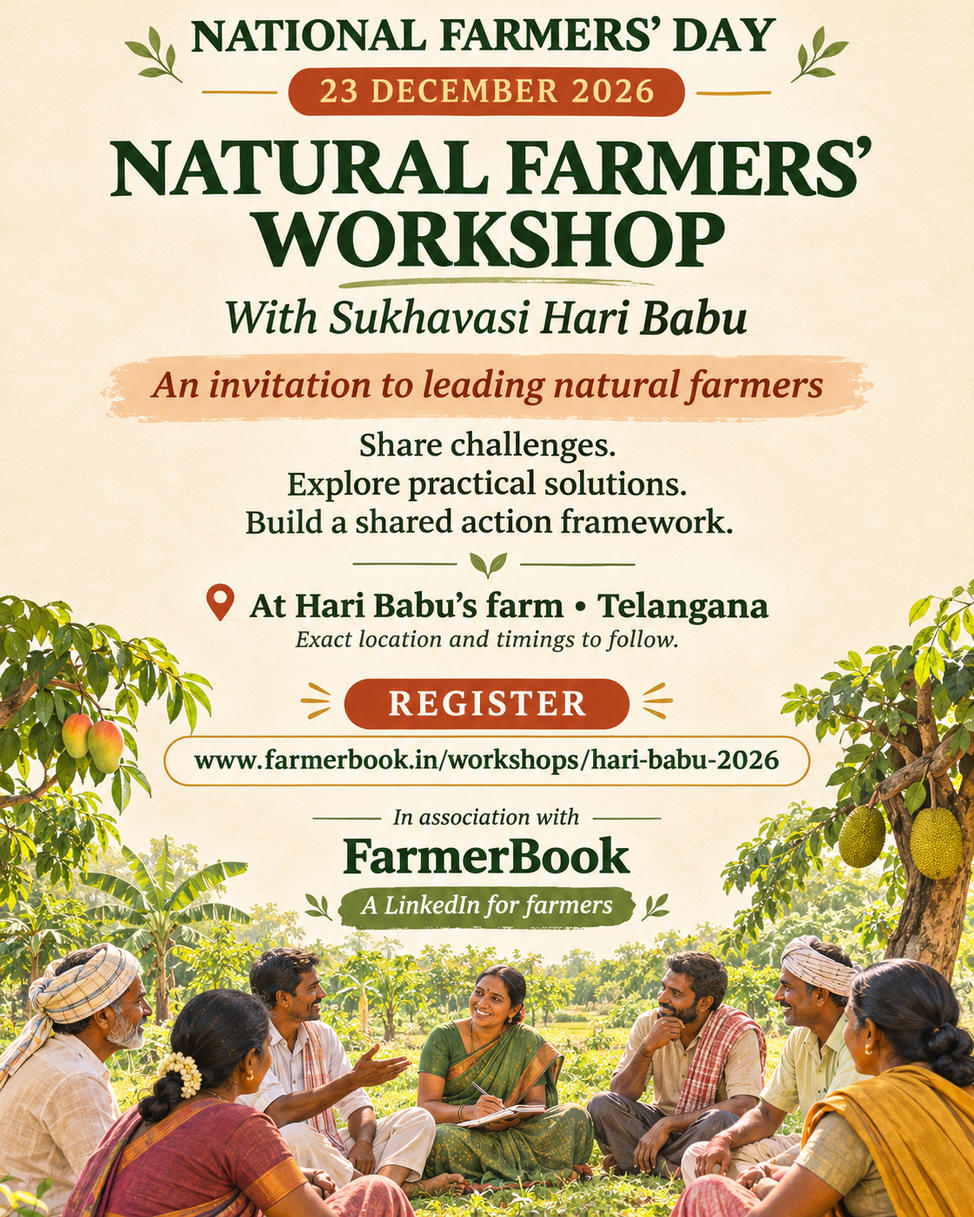
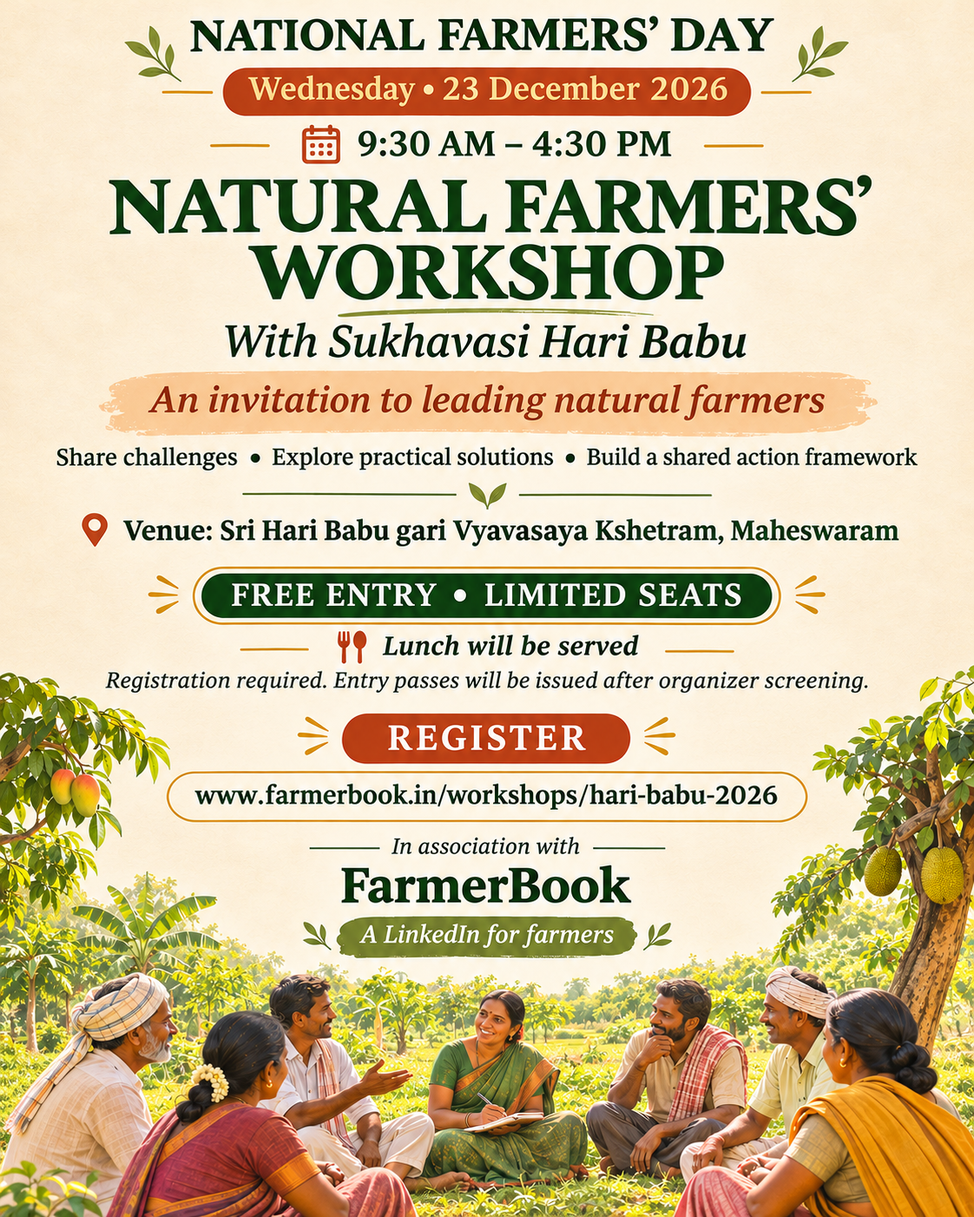
Confirm workshop schedule venue and screened-entry details

diff --git a/features/workshops/workshop-copy.ts b/features/workshops/workshop-copy.ts
@@ -13,11 +13,11 @@ const english = {
   homeEyebrow: "23 December 2026 · National Farmers' Day",
   homeTitle: "A natural farmers' workshop with Sukhavasi Hari Babu",
   homeBody:
-    "Bring the farming challenges you face. The workshop aims to discuss practical solutions and shape a shared framework for action, in association with FarmerBook.in.",
+    "Bring your farming challenges to Sri Hari Babu Gari Vyavasaya Kshetram, Maheswaram, on 23 December 2026, 9:30 AM–4:30 PM IST. Entry is free and lunch is served. Seats are limited; organizers review registration requests and issue passes for entry.",
   homeAction: "Explore the workshop",
   metadataTitle: "Sukhavasi Hari Babu Natural Farmers' Workshop",
   metadataDescription:
-    "A natural farmers' workshop on 23 December 2026, National Farmers' Day, in association with FarmerBook.in. Share your interest and the farming challenges you want to discuss.",
+    "23 December 2026, 9:30 AM–4:30 PM IST at Sri Hari Babu Gari Vyavasaya Kshetram, Maheswaram. Free entry and lunch; limited seats. Organizers issue passes after reviewing registrations.",
   eyebrow: "National Farmers' Day · 23 December 2026",
   title: "Sukhavasi Hari Babu Natural Farmers' Workshop",
   intro:
@@ -26,9 +26,15 @@ const english = {
   dateLabel: "Date",
   dateValue: "Wednesday, 23 December 2026",
   timeLabel: "Time",
-  timeValue: "The organizers will share the exact time.",
+  timeValue: "9:30 AM–4:30 PM IST",
   placeLabel: "Location",
-  placeValue: "Hari Babu's farm, Telangana. The exact location will follow.",
+  placeValue: "Sri Hari Babu Gari Vyavasaya Kshetram, Maheswaram",
+  entryLabel: "Entry",
+  entryValue: "Free entry. Registration and an organizer-issued pass are required.",
+  seatsLabel: "Seats and passes",
+  seatsValue: "Limited seats. Organizers review registrations before issuing passes.",
+  lunchLabel: "Lunch",
+  lunchValue: "Served at the event.",
   interestAction: "Share your interest",
   closedAction: "Registration closed",
   profileAction: "About Sukhavasi Hari Babu",
@@ -42,7 +48,7 @@ const english = {
   purposeEyebrow: "What we will work on",
   purposeTitle: "Start with farmers' questions",
   purposeIntro:
-    "Your registration can include the challenges you face and ideas you want to bring to the discussion.",
+    "Your interest request can include the challenges you face and ideas you want to bring to the discussion.",
   challengeTitle: "Name the problems",
   challengeBody: "Surface the practical obstacles farmers are seeing in their fields.",
   solutionTitle: "Explore solutions",
@@ -52,7 +58,7 @@ const english = {
   registrationEyebrow: "Workshop interest",
   registrationTitle: "Tell us you are interested",
   registrationIntro:
-    "Share the details needed for workshop coordination. The organizers will contact you with the exact time and location.",
+    "Entry is free, but seats are limited. Share your interest for organizer review; selected applicants receive a pass. Submitting this form does not confirm entry.",
   closedTitle: "Registration is closed",
   closedBody:
     "Registration for the 23 December 2026 workshop closed at midnight India time on 24 December 2026.",
@@ -69,14 +75,14 @@ const english = {
   crops: "Main crops (optional)",
   attendanceInterest: "Your interest",
   chooseInterest: "Choose an option",
-  attendanceAttend: "I plan to attend",
+  attendanceAttend: "I would like to attend if selected",
   attendanceInterested: "I am interested and would like details",
   challenges: "What challenges would you like to discuss? (optional)",
   proposedSolutions: "What practical solutions would you like to share? (optional)",
   consent:
-    "I agree that FarmerBook.in and the workshop organizers may use the details I provide to coordinate this workshop and contact me about it. My responses will not be shown publicly.",
+    "I agree that FarmerBook.in and the workshop organizers may use my details to review my interest request, coordinate this workshop, and contact me about a pass. My responses will not be shown publicly.",
   privacy:
-    "Your details are used only to coordinate this workshop and will be automatically deleted on 24 March 2027 (India time).",
+    "Your details are used only to review interest requests and coordinate this workshop. They will be automatically deleted on 24 March 2027 (India time).",
   earlyDeletion: "For earlier deletion, use the",
   deletionRequestLink: "data deletion request page",
   orEmail: "or email",
@@ -94,8 +100,8 @@ const english = {
   sessionRefreshing: "Your secure form expired. Refreshing it while keeping your answers…",
   sessionRefreshed: "Your form is ready again. Complete spam protection and submit once more.",
   rateLimited: "Too many attempts. Please try again later.",
-  successTitle: "Registration received",
-  successBody: "The organizers will contact you with the exact time and location.",
+  successTitle: "Interest request received",
+  successBody: "Organizers will review your request and issue passes to selected participants. This submission does not confirm a seat or entry.",
   fallbackNotice:
     "Workshop information is currently available in English for this language selection.",
 };
@@ -103,53 +109,59 @@ const english = {
 export type WorkshopCopy = typeof english;
 
 const telugu: WorkshopCopy = {
-  nav: "రైతుల వర్క్షాప్",
+  nav: "ప్రకృతి రైతుల సమ్మేళనం",
   homeEyebrow: "23 డిసెంబర్ 2026 · జాతీయ రైతు దినోత్సవం",
-  homeTitle: "సుఖవాసి హరి బాబుతో సహజ రైతుల వర్క్షాప్",
+  homeTitle: "సుఖవాసి హరి బాబు ప్రకృతి రైతుల సమ్మేళనం",
   homeBody:
-    "మీ వ్యవసాయ సవాళ్లను పంచుకోండి. ఫార్మర్బుక్.ఇన్ భాగస్వామ్యంతో నిర్వహించే ఈ వర్క్షాప్లో ఆచరణాత్మక పరిష్కారాలపై చర్చించి, ఉమ్మడి కార్యాచరణ రూపకల్పన చేయాలని లక్ష్యంగా పెట్టుకున్నాం.",
-  homeAction: "వర్క్షాప్ వివరాలు చూడండి",
-  metadataTitle: "సుఖవాసి హరి బాబు సహజ రైతుల వర్క్షాప్",
+    "23 డిసెంబర్ 2026న భారత కాలమానం ప్రకారం ఉదయం 9:30 నుంచి సాయంత్రం 4:30 వరకు మహేశ్వరంలోని శ్రీ హరి బాబు గారి వ్యవసాయ క్షేత్రంలో మీ వ్యవసాయ సవాళ్లను పంచుకోండి. ప్రవేశం ఉచితం; మధ్యాహ్న భోజనం అందిస్తారు. సీట్లు పరిమితం; నమోదు అభ్యర్థనలను పరిశీలించి నిర్వాహకులు ప్రవేశ పాస్లు జారీ చేస్తారు.",
+  homeAction: "సమ్మేళనం వివరాలు చూడండి",
+  metadataTitle: "సుఖవాసి హరి బాబు ప్రకృతి రైతుల సమ్మేళనం",
   metadataDescription:
-    "జాతీయ రైతు దినోత్సవమైన 23 డిసెంబర్ 2026న ఫార్మర్బుక్.ఇన్ భాగస్వామ్యంతో సహజ రైతుల వర్క్షాప్. మీ ఆసక్తిని, చర్చించాలనుకునే సమస్యలను తెలియజేయండి.",
+    "23 డిసెంబర్ 2026న ఉదయం 9:30–సాయంత్రం 4:30 వరకు (భారత కాలమానం) శ్రీ హరి బాబు గారి వ్యవసాయ క్షేత్రం, మహేశ్వరంలో ప్రకృతి రైతుల సమ్మేళనం. ప్రవేశం ఉచితం, సీట్లు పరిమితం, మధ్యాహ్న భోజనం ఉంటుంది. పరిశీలన తర్వాత పాస్లు జారీ చేస్తారు.",
   eyebrow: "జాతీయ రైతు దినోత్సవం · 23 డిసెంబర్ 2026",
-  title: "సుఖవాసి హరి బాబు సహజ రైతుల వర్క్షాప్",
+  title: "సుఖవాసి హరి బాబు ప్రకృతి రైతుల సమ్మేళనం",
   intro:
-    "సహజ రైతులు ఎదుర్కొనే నిజమైన సమస్యలను పంచుకుని, ఆచరణాత్మక పరిష్కారాలను కలిసి పరిశీలించి, ఉమ్మడి కార్యాచరణ రూపకల్పనకు కృషి చేసే వేదిక.",
+    "ప్రకృతి రైతులు ఎదుర్కొనే నిజమైన సమస్యలను పంచుకుని, ఆచరణాత్మక పరిష్కారాలను కలిసి పరిశీలించి, ఉమ్మడి కార్యాచరణ రూపకల్పనకు కృషి చేసే వేదిక.",
   association: "ఫార్మర్బుక్.ఇన్ భాగస్వామ్యంతో",
   dateLabel: "తేదీ",
   dateValue: "బుధవారం, 23 డిసెంబర్ 2026",
   timeLabel: "సమయం",
-  timeValue: "ఖచ్చితమైన సమయాన్ని నిర్వాహకులు తెలియజేస్తారు.",
+  timeValue: "ఉదయం 9:30–సాయంత్రం 4:30 (భారత కాలమానం)",
   placeLabel: "ప్రదేశం",
-  placeValue: "తెలంగాణలో హరి బాబు గారి పొలం. ఖచ్చితమైన ప్రదేశాన్ని తరువాత తెలియజేస్తారు.",
+  placeValue: "శ్రీ హరి బాబు గారి వ్యవసాయ క్షేత్రం, మహేశ్వరం",
+  entryLabel: "ప్రవేశం",
+  entryValue: "ప్రవేశం ఉచితం. నమోదు, నిర్వాహకులు జారీ చేసిన పాస్ తప్పనిసరి.",
+  seatsLabel: "సీట్లు, పాస్లు",
+  seatsValue: "సీట్లు పరిమితం. నమోదు అభ్యర్థనలను పరిశీలించిన తర్వాత నిర్వాహకులు పాస్లు జారీ చేస్తారు.",
+  lunchLabel: "మధ్యాహ్న భోజనం",
+  lunchValue: "సమ్మేళనంలో అందిస్తారు.",
   interestAction: "మీ ఆసక్తిని తెలియజేయండి",
   closedAction: "నమోదు ముగిసింది",
   profileAction: "సుఖవాసి హరి బాబు గురించి",
-  posterTitle: "వర్క్షాప్ పోస్టర్ను పంచుకోండి",
+  posterTitle: "సమ్మేళనం పోస్టర్ను పంచుకోండి",
   posterBody: "మీరు ఎంచుకున్న భాషలో పోస్టర్ను డౌన్లోడ్ చేసుకోండి.",
-  posterAlt: "జాతీయ రైతు దినోత్సవ సహజ రైతుల వర్క్షాప్ పోస్టర్",
+  posterAlt: "సుఖవాసి హరి బాబు ప్రకృతి రైతుల సమ్మేళనం పోస్టర్",
   downloadPoster: "పోస్టర్ డౌన్లోడ్ చేయండి",
-  qrTitle: "వర్క్షాప్ పేజీని తెరవండి",
-  qrBody: "మరో పరికరంలో ఈ వర్క్షాప్ పేజీని తెరవడానికి QR కోడ్ను స్కాన్ చేయండి.",
-  qrAlt: "ఫార్మర్బుక్ హరి బాబు వర్క్షాప్ పేజీకి లింక్ చేసే QR కోడ్",
+  qrTitle: "సమ్మేళనం పేజీని తెరవండి",
+  qrBody: "మరో పరికరంలో ఈ సమ్మేళనం పేజీని తెరవడానికి QR కోడ్ను స్కాన్ చేయండి.",
+  qrAlt: "ఫార్మర్బుక్ హరి బాబు ప్రకృతి రైతుల సమ్మేళనం పేజీకి లింక్ చేసే QR కోడ్",
   purposeEyebrow: "మనం చర్చించేవి",
   purposeTitle: "రైతుల ప్రశ్నలతో ప్రారంభిద్దాం",
   purposeIntro:
-    "నమోదులో మీరు ఎదుర్కొనే సవాళ్లను, చర్చకు తీసుకురావాలనుకునే ఆలోచనలను పంచుకోవచ్చు.",
+    "మీ ఆసక్తి అభ్యర్థనలో మీరు ఎదుర్కొనే సవాళ్లను, చర్చకు తీసుకురావాలనుకునే ఆలోచనలను పంచుకోవచ్చు.",
   challengeTitle: "సమస్యలను గుర్తిద్దాం",
   challengeBody: "పొలాల్లో రైతులు ఎదుర్కొనే ఆచరణాత్మక అడ్డంకులను పంచుకుందాం.",
   solutionTitle: "పరిష్కారాలను పరిశీలిద్దాం",
   solutionBody: "స్థానిక పరిస్థితులకు అనుగుణంగా పరీక్షించగల పద్ధతులను చర్చిద్దాం.",
   actionTitle: "ఉమ్మడి కార్యాచరణ",
   actionBody: "తదుపరి అడుగుల కోసం ఉమ్మడి రూపకల్పనకు కృషి చేద్దాం.",
-  registrationEyebrow: "వర్క్షాప్ ఆసక్తి నమోదు",
+  registrationEyebrow: "సమ్మేళనం ఆసక్తి నమోదు",
   registrationTitle: "మీ ఆసక్తిని తెలియజేయండి",
   registrationIntro:
-    "వర్క్షాప్ సమన్వయానికి అవసరమైన వివరాలను ఇవ్వండి. ఖచ్చితమైన సమయం, ప్రదేశాన్ని నిర్వాహకులు మీకు తెలియజేస్తారు.",
+    "ప్రవేశం ఉచితం, సీట్లు పరిమితం. నిర్వాహకుల పరిశీలన కోసం మీ ఆసక్తిని పంపండి. ఎంపికైన వారికి పాస్లు జారీ చేస్తారు; ఈ ఫారమ్ పంపడం ప్రవేశాన్ని నిర్ధారించదు.",
   closedTitle: "నమోదు ముగిసింది",
   closedBody:
-    "23 డిసెంబర్ 2026 వర్క్షాప్ నమోదు 24 డిసెంబర్ 2026న భారత కాలమానం ప్రకారం అర్ధరాత్రికి ముగిసింది.",
+    "23 డిసెంబర్ 2026 సమ్మేళనం నమోదు 24 డిసెంబర్ 2026న భారత కాలమానం ప్రకారం అర్ధరాత్రికి ముగిసింది.",
   farmerName: "మీ పేరు",
   phone: "మొబైల్ నంబర్",
   phoneHelp: "10 అంకెల భారతీయ మొబైల్ నంబర్ను +91తో లేదా లేకుండా నమోదు చేయండి. ఖాళీలు, హైఫన్లు ఉపయోగించవచ్చు.",
@@ -163,14 +175,14 @@ const telugu: WorkshopCopy = {
   crops: "ప్రధాన పంటలు (ఐచ్ఛికం)",
   attendanceInterest: "మీ ఆసక్తి",
   chooseInterest: "ఒక ఎంపికను ఎంచుకోండి",
-  attendanceAttend: "హాజరు కావాలని అనుకుంటున్నాను",
+  attendanceAttend: "ఎంపికైతే హాజరు కావాలనుకుంటున్నాను",
   attendanceInterested: "ఆసక్తి ఉంది; వివరాలు కావాలి",
   challenges: "ఏ సవాళ్లను చర్చించాలనుకుంటున్నారు? (ఐచ్ఛికం)",
   proposedSolutions: "ఏ ఆచరణాత్మక పరిష్కారాలను పంచుకోవాలనుకుంటున్నారు? (ఐచ్ఛికం)",
   consent:
-    "ఈ వర్క్షాప్ సమన్వయం కోసం, దీనికి సంబంధించి నన్ను సంప్రదించడానికి నేను ఇచ్చిన వివరాలను ఫార్మర్బుక్.ఇన్ మరియు వర్క్షాప్ నిర్వాహకులు ఉపయోగించవచ్చని అంగీకరిస్తున్నాను. నా సమాధానాలు బహిరంగంగా చూపబడవు.",
+    "నా ఆసక్తి అభ్యర్థనను పరిశీలించడానికి, ఈ సమ్మేళనాన్ని సమన్వయం చేయడానికి, పాస్ గురించి నన్ను సంప్రదించడానికి నేను ఇచ్చిన వివరాలను ఫార్మర్బుక్.ఇన్ మరియు సమ్మేళనం నిర్వాహకులు ఉపయోగించవచ్చని అంగీకరిస్తున్నాను. నా సమాధానాలు బహిరంగంగా చూపబడవు.",
   privacy:
-    "మీ వివరాలు ఈ వర్క్షాప్ సమన్వయానికి మాత్రమే ఉపయోగించబడతాయి. 24 మార్చి 2027న (భారత కాలమానం) స్వయంచాలకంగా తొలగించబడతాయి.",
+    "మీ వివరాలు ఆసక్తి అభ్యర్థనల పరిశీలనకు, ఈ సమ్మేళనం సమన్వయానికి మాత్రమే ఉపయోగించబడతాయి. 24 మార్చి 2027న (భారత కాలమానం) స్వయంచాలకంగా తొలగించబడతాయి.",
   earlyDeletion: "అంతకుముందు తొలగింపుకు",
   deletionRequestLink: "డేటా తొలగింపు అభ్యర్థన పేజీని",
   orEmail: "ఉపయోగించండి లేదా ఇమెయిల్ చేయండి",
@@ -180,16 +192,16 @@ const telugu: WorkshopCopy = {
   formUnavailable: "నమోదు ఫారమ్ తాత్కాలికంగా అందుబాటులో లేదు. తరువాత మళ్లీ ప్రయత్నించండి.",
   turnstileUnavailable: "స్పామ్ రక్షణ లోడ్ కాలేదు. ఈ పేజీని మళ్లీ తెరిచి ప్రయత్నించండి.",
   retryForm: "ఫారమ్ను మళ్లీ లోడ్ చేయండి",
-  submit: "వర్క్షాప్ ఆసక్తిని పంపండి",
+  submit: "సమ్మేళనం ఆసక్తిని పంపండి",
   submitting: "పంపుతోంది…",
   genericError: "మీ నమోదు నిర్ధారించలేకపోయాం. అదే వివరాలతో మళ్లీ ప్రయత్నించండి.",
   sessionRefreshing: "సురక్షిత ఫారమ్ సమయం ముగిసింది. మీ సమాధానాలను ఉంచి ఫారమ్ను మళ్లీ సిద్ధం చేస్తున్నాం…",
   sessionRefreshed: "ఫారమ్ మళ్లీ సిద్ధమైంది. స్పామ్ రక్షణను పూర్తి చేసి మరోసారి పంపండి.",
   rateLimited: "చాలా ప్రయత్నాలు జరిగాయి. కొంత సమయం తరువాత మళ్లీ ప్రయత్నించండి.",
-  successTitle: "నమోదు అందింది",
-  successBody: "ఖచ్చితమైన సమయం, ప్రదేశాన్ని నిర్వాహకులు మీకు తెలియజేస్తారు.",
+  successTitle: "ఆసక్తి అభ్యర్థన అందింది",
+  successBody: "నిర్వాహకులు మీ అభ్యర్థనను పరిశీలించి ఎంపికైన వారికి పాస్లు జారీ చేస్తారు. ఈ సమర్పణ సీటు లేదా ప్రవేశాన్ని నిర్ధారించదు.",
   fallbackNotice:
-    "మీరు ఎంచుకున్న భాషకు వర్క్షాప్ సమాచారం ప్రస్తుతం ఆంగ్లంలో అందుబాటులో ఉంది.",
+    "మీరు ఎంచుకున్న భాషకు సమ్మేళనం సమాచారం ప్రస్తుతం ఆంగ్లంలో అందుబాటులో ఉంది.",
 };
 
 const hindi: WorkshopCopy = {
@@ -197,11 +209,11 @@ const hindi: WorkshopCopy = {
   homeEyebrow: "23 दिसंबर 2026 · राष्ट्रीय किसान दिवस",
   homeTitle: "सुखवासी हरि बाबू के साथ प्राकृतिक किसानों की कार्यशाला",
   homeBody:
-    "खेती में आने वाली चुनौतियाँ साझा करें। FarmerBook.in के सहयोग से यह कार्यशाला व्यावहारिक समाधान पर चर्चा और साझा कार्ययोजना की रूपरेखा बनाने के लिए है।",
+    "23 दिसंबर 2026 को सुबह 9:30 से शाम 4:30 बजे (भारतीय समय) महेश्वरम स्थित श्री हरि बाबू के कृषि फ़ार्म में खेती की चुनौतियाँ साझा करें। प्रवेश निःशुल्क है और दोपहर का भोजन मिलेगा। सीटें सीमित हैं; आयोजक पंजीकरण अनुरोधों की समीक्षा के बाद प्रवेश पास जारी करेंगे।",
   homeAction: "कार्यशाला देखें",
   metadataTitle: "सुखवासी हरि बाबू प्राकृतिक किसान कार्यशाला",
   metadataDescription:
-    "राष्ट्रीय किसान दिवस, 23 दिसंबर 2026 को FarmerBook.in के सहयोग से प्राकृतिक किसानों की कार्यशाला। अपनी रुचि और चर्चा के विषय साझा करें।",
+    "23 दिसंबर 2026, सुबह 9:30–शाम 4:30 बजे (भारतीय समय), महेश्वरम स्थित श्री हरि बाबू के कृषि फ़ार्म में। निःशुल्क प्रवेश, सीमित सीटें, दोपहर का भोजन; समीक्षा के बाद पास जारी होंगे।",
   eyebrow: "राष्ट्रीय किसान दिवस · 23 दिसंबर 2026",
   title: "सुखवासी हरि बाबू प्राकृतिक किसान कार्यशाला",
   intro:
@@ -210,9 +222,15 @@ const hindi: WorkshopCopy = {
   dateLabel: "तारीख",
   dateValue: "बुधवार, 23 दिसंबर 2026",
   timeLabel: "समय",
-  timeValue: "सटीक समय आयोजक बताएँगे।",
+  timeValue: "सुबह 9:30–शाम 4:30 बजे (भारतीय समय)",
   placeLabel: "स्थान",
-  placeValue: "तेलंगाना में हरि बाबू का खेत। सटीक स्थान बाद में बताया जाएगा।",
+  placeValue: "श्री हरि बाबू का कृषि फ़ार्म, महेश्वरम",
+  entryLabel: "प्रवेश",
+  entryValue: "निःशुल्क प्रवेश। पंजीकरण और आयोजकों द्वारा जारी पास आवश्यक हैं।",
+  seatsLabel: "सीटें और पास",
+  seatsValue: "सीटें सीमित हैं। आयोजक अनुरोधों की समीक्षा के बाद पास जारी करेंगे।",
+  lunchLabel: "दोपहर का भोजन",
+  lunchValue: "कार्यक्रम में दिया जाएगा।",
   interestAction: "अपनी रुचि साझा करें",
   closedAction: "पंजीकरण बंद है",
   profileAction: "सुखवासी हरि बाबू के बारे में",
@@ -226,7 +244,7 @@ const hindi: WorkshopCopy = {
   purposeEyebrow: "बातचीत के विषय",
   purposeTitle: "किसानों के सवालों से शुरुआत",
   purposeIntro:
-    "पंजीकरण में आप अपनी चुनौतियाँ और चर्चा के लिए अपने सुझाव साझा कर सकते हैं।",
+    "रुचि अनुरोध में आप अपनी चुनौतियाँ और चर्चा के लिए अपने सुझाव साझा कर सकते हैं।",
   challengeTitle: "समस्याएँ सामने रखें",
   challengeBody: "खेतों में किसानों के सामने आने वाली व्यावहारिक बाधाएँ साझा करें।",
   solutionTitle: "समाधान खोजें",
@@ -236,7 +254,7 @@ const hindi: WorkshopCopy = {
   registrationEyebrow: "कार्यशाला में रुचि",
   registrationTitle: "अपनी रुचि बताएँ",
   registrationIntro:
-    "कार्यशाला के समन्वय के लिए आवश्यक विवरण दें। आयोजक आपसे संपर्क करके सटीक समय और स्थान बताएँगे।",
+    "प्रवेश निःशुल्क है, लेकिन सीटें सीमित हैं। आयोजकों की समीक्षा के लिए अपनी रुचि भेजें। चयनित लोगों को पास जारी होंगे; फ़ॉर्म भेजने से प्रवेश पक्का नहीं होता।",
   closedTitle: "पंजीकरण बंद है",
   closedBody:
     "23 दिसंबर 2026 की कार्यशाला का पंजीकरण 24 दिसंबर 2026 को भारतीय समयानुसार रात 12 बजे बंद हो गया।",
@@ -253,14 +271,14 @@ const hindi: WorkshopCopy = {
   crops: "मुख्य फ़सलें (वैकल्पिक)",
   attendanceInterest: "आपकी रुचि",
   chooseInterest: "एक विकल्प चुनें",
-  attendanceAttend: "मैं आने की योजना बना रहा/रही हूँ",
+  attendanceAttend: "चयन होने पर मैं आना चाहूँगा/चाहूँगी",
   attendanceInterested: "मुझे रुचि है और विवरण चाहिए",
   challenges: "आप किन चुनौतियों पर चर्चा करना चाहते हैं? (वैकल्पिक)",
   proposedSolutions: "आप कौन से व्यावहारिक समाधान साझा करना चाहते हैं? (वैकल्पिक)",
   consent:
-    "मैं सहमत हूँ कि FarmerBook.in और कार्यशाला के आयोजक मेरे दिए विवरण का उपयोग इस कार्यशाला के समन्वय और मुझसे इसके बारे में संपर्क करने के लिए कर सकते हैं। मेरे उत्तर सार्वजनिक रूप से नहीं दिखाए जाएँगे।",
+    "मैं सहमत हूँ कि FarmerBook.in और कार्यशाला के आयोजक मेरे विवरण का उपयोग मेरी रुचि की समीक्षा, कार्यक्रम के समन्वय और पास के बारे में मुझसे संपर्क करने के लिए कर सकते हैं। मेरे उत्तर सार्वजनिक रूप से नहीं दिखाए जाएँगे।",
   privacy:
-    "आपके विवरण का उपयोग केवल इस कार्यशाला के समन्वय के लिए होगा। वे 24 मार्च 2027 (भारतीय समय) को अपने आप हटा दिए जाएँगे।",
+    "आपके विवरण का उपयोग केवल रुचि अनुरोधों की समीक्षा और इस कार्यशाला के समन्वय के लिए होगा। वे 24 मार्च 2027 (भारतीय समय) को अपने आप हटा दिए जाएँगे।",
   earlyDeletion: "समय से पहले हटाने के लिए",
   deletionRequestLink: "डेटा हटाने के अनुरोध वाले पेज का",
   orEmail: "उपयोग करें या ईमेल करें",
@@ -277,8 +295,8 @@ const hindi: WorkshopCopy = {
   sessionRefreshing: "सुरक्षित फ़ॉर्म का समय समाप्त हो गया है। आपके उत्तर रखकर फ़ॉर्म फिर तैयार किया जा रहा है…",
   sessionRefreshed: "फ़ॉर्म फिर तैयार है। स्पैम सुरक्षा पूरी करें और दोबारा भेजें।",
   rateLimited: "बहुत अधिक प्रयास हुए हैं। कृपया बाद में फिर कोशिश करें।",
-  successTitle: "पंजीकरण प्राप्त हुआ",
-  successBody: "आयोजक आपसे संपर्क करके सटीक समय और स्थान बताएँगे।",
+  successTitle: "रुचि अनुरोध प्राप्त हुआ",
+  successBody: "आयोजक आपके अनुरोध की समीक्षा करेंगे और चयनित लोगों को पास जारी करेंगे। यह फ़ॉर्म भेजने से सीट या प्रवेश की पुष्टि नहीं होती।",
   fallbackNotice:
     "आपकी चुनी हुई भाषा में कार्यशाला की जानकारी अभी उपलब्ध नहीं है; यहाँ अंग्रेज़ी दिखाई गई है।",
 };

diff --git a/features/workshops/workshop-privacy.ts b/features/workshops/workshop-privacy.ts
@@ -1,7 +1,7 @@
 const english = {
   title: "Hari Babu workshop registration details",
   privacy:
-    "The voluntary workshop form collects your name, mobile number, district and state, and any farm details or discussion topics you choose to share. Authorized organizers use these details only to coordinate the 23 December 2026 workshop. The records are removed by 24 March 2027, India time.",
+    "The voluntary workshop form collects your name, mobile number, district and state, and any farm details or discussion topics you choose to share. Authorized organizers use these details only to review interest requests and coordinate the 23 December 2026 workshop. The records are removed by 24 March 2027, India time.",
   request:
     "You can request earlier removal through the data request page or by emailing ceo@farmerbook.in. A FarmerBook account is not required to make this request.",
   requestLink: "Data requests",
@@ -11,21 +11,21 @@ const english = {
 };
 
 const telugu = {
-  title: "హరి బాబు వర్క్షాప్ నమోదు వివరాలు",
+  title: "హరి బాబు ప్రకృతి రైతుల సమ్మేళనం నమోదు వివరాలు",
   privacy:
-    "ఐచ్ఛిక వర్క్షాప్ ఫారమ్లో మీ పేరు, మొబైల్ నంబర్, జిల్లా, రాష్ట్రం, మీరు ఇవ్వాలనుకున్న పొలం వివరాలు లేదా చర్చ అంశాలు తీసుకుంటాం. అధికారం ఉన్న నిర్వాహకులు ఈ వివరాలను 23 డిసెంబర్ 2026 వర్క్షాప్ సమన్వయం కోసమే ఉపయోగిస్తారు. ఈ రికార్డులను భారత కాలమానం ప్రకారం 24 మార్చి 2027 నాటికి తొలగిస్తాం.",
+    "ఐచ్ఛిక సమ్మేళనం ఫారమ్లో మీ పేరు, మొబైల్ నంబర్, జిల్లా, రాష్ట్రం, మీరు ఇవ్వాలనుకున్న పొలం వివరాలు లేదా చర్చ అంశాలు తీసుకుంటాం. అధికారం ఉన్న నిర్వాహకులు ఈ వివరాలను ఆసక్తి అభ్యర్థనల పరిశీలనకు, 23 డిసెంబర్ 2026 సమ్మేళనం సమన్వయానికి మాత్రమే ఉపయోగిస్తారు. ఈ రికార్డులను భారత కాలమానం ప్రకారం 24 మార్చి 2027 నాటికి తొలగిస్తాం.",
   request:
     "ముందుగానే తొలగించమని డేటా అభ్యర్థన పేజీ ద్వారా లేదా ceo@farmerbook.in కు ఇమెయిల్ చేసి కోరవచ్చు. ఇందుకు FarmerBook ఖాతా అవసరం లేదు.",
   requestLink: "డేటా అభ్యర్థనలు",
-  deletionTitle: "వర్క్షాప్ నమోదు తొలగింపు",
+  deletionTitle: "సమ్మేళనం నమోదు తొలగింపు",
   deletion:
-    "హరి బాబు వర్క్షాప్ ఆసక్తి ఫారమ్ను పంపితే, 24 మార్చి 2027కి ముందే మీ ప్రైవేట్ రికార్డును తొలగించమని ceo@farmerbook.in కు ఇమెయిల్ చేయవచ్చు. తొలగించే ముందు నిర్వాహకులు అభ్యర్థనను ధృవీకరిస్తారు. FarmerBook ఖాతా అవసరం లేదు.",
+    "హరి బాబు ప్రకృతి రైతుల సమ్మేళనం ఆసక్తి ఫారమ్ను పంపితే, 24 మార్చి 2027కి ముందే మీ ప్రైవేట్ రికార్డును తొలగించమని ceo@farmerbook.in కు ఇమెయిల్ చేయవచ్చు. తొలగించే ముందు నిర్వాహకులు అభ్యర్థనను ధృవీకరిస్తారు. FarmerBook ఖాతా అవసరం లేదు.",
 };
 
 const hindi = {
   title: "हरि बाबू कार्यशाला पंजीकरण विवरण",
   privacy:
-    "स्वैच्छिक कार्यशाला फ़ॉर्म में आपका नाम, मोबाइल नंबर, ज़िला और राज्य, तथा आपके चुने हुए खेत के विवरण या चर्चा के विषय लिए जाते हैं। अधिकृत आयोजक इन विवरणों का उपयोग केवल 23 दिसंबर 2026 की कार्यशाला के समन्वय के लिए करते हैं। ये रिकॉर्ड भारतीय समय के अनुसार 24 मार्च 2027 तक हटा दिए जाते हैं।",
+    "स्वैच्छिक कार्यशाला फ़ॉर्म में आपका नाम, मोबाइल नंबर, ज़िला और राज्य, तथा आपके चुने हुए खेत के विवरण या चर्चा के विषय लिए जाते हैं। अधिकृत आयोजक इन विवरणों का उपयोग केवल रुचि अनुरोधों की समीक्षा और 23 दिसंबर 2026 की कार्यशाला के समन्वय के लिए करते हैं। ये रिकॉर्ड भारतीय समय के अनुसार 24 मार्च 2027 तक हटा दिए जाते हैं।",
   request:
     "आप डेटा अनुरोध पेज से या ceo@farmerbook.in पर ईमेल करके पहले भी इन्हें हटाने का अनुरोध कर सकते हैं। इसके लिए FarmerBook खाते की ज़रूरत नहीं है।",
   requestLink: "डेटा अनुरोध",

diff --git a/app/workshops/hari-babu-2026/page.tsx b/app/workshops/hari-babu-2026/page.tsx
@@ -2,7 +2,7 @@
 import type { Metadata } from "next";
 import Link from "next/link";
 import { notFound } from "next/navigation";
-import { ArrowDown, ArrowUpRight, CalendarDays, MapPin, MessageCircle, Sprout } from "lucide-react";
+import { ArrowDown, ArrowUpRight, CalendarDays, MapPin, MessageCircle, Sprout, Ticket, UsersRound, UtensilsCrossed } from "lucide-react";
 import { PublicFooter } from "@/components/public-footer";
 import { PublicHeader } from "@/components/public-header";
 import { WorkshopRegistrationForm } from "@/features/workshops/workshop-registration-form";
@@ -82,6 +82,21 @@ export default async function HariBabuWorkshopPage() {
                   <MapPin size={22} aria-hidden="true" />
                   <dt>{copy.placeLabel}</dt>
                   <dd>{copy.placeValue}</dd>
+                </div>
+                <div>
+                  <Ticket size={22} aria-hidden="true" />
+                  <dt>{copy.entryLabel}</dt>
+                  <dd>{copy.entryValue}</dd>
+                </div>
+                <div>
+                  <UsersRound size={22} aria-hidden="true" />
+                  <dt>{copy.seatsLabel}</dt>
+                  <dd>{copy.seatsValue}</dd>
+                </div>
+                <div>
+                  <UtensilsCrossed size={22} aria-hidden="true" />
+                  <dt>{copy.lunchLabel}</dt>
+                  <dd>{copy.lunchValue}</dd>
                 </div>
               </dl>
             </div>

diff --git a/tests/workshop-page.test.tsx b/tests/workshop-page.test.tsx
@@ -38,7 +38,7 @@ describe("Hari Babu workshop page", () => {
     const html = renderToStaticMarkup(await HariBabuWorkshopPage());
     expect(html).toContain("lang=\"te-IN\"");
     expect(html).toContain("23 డిసెంబర్ 2026");
-    expect(html).toContain("తెలంగాణలో హరి బాబు గారి పొలం");
+    expect(html).toContain("శ్రీ హరి బాబు గారి వ్యవసాయ క్షేత్రం, మహేశ్వరం");
     expect(html).toContain("hari-babu-workshop-2026-telugu.png");
     expect(html).toContain("registration-qr.png");
     expect(html).toContain("download=\"\"");

diff --git a/tests/workshop-header.test.tsx b/tests/workshop-header.test.tsx
@@ -30,7 +30,7 @@ describe("public workshop navigation", () => {
   it("links to the same route in the visitor's language", async () => {
     const html = renderToStaticMarkup(await PublicHeader());
     expect(html).toContain('href="/workshops/hari-babu-2026"');
-    expect(html).toContain("రైతుల వర్క్షాప్");
+    expect(html).toContain("ప్రకృతి రైతుల సమ్మేళనం");
   });
 
   it("hides the link while the workshop flag is off", async () => {
